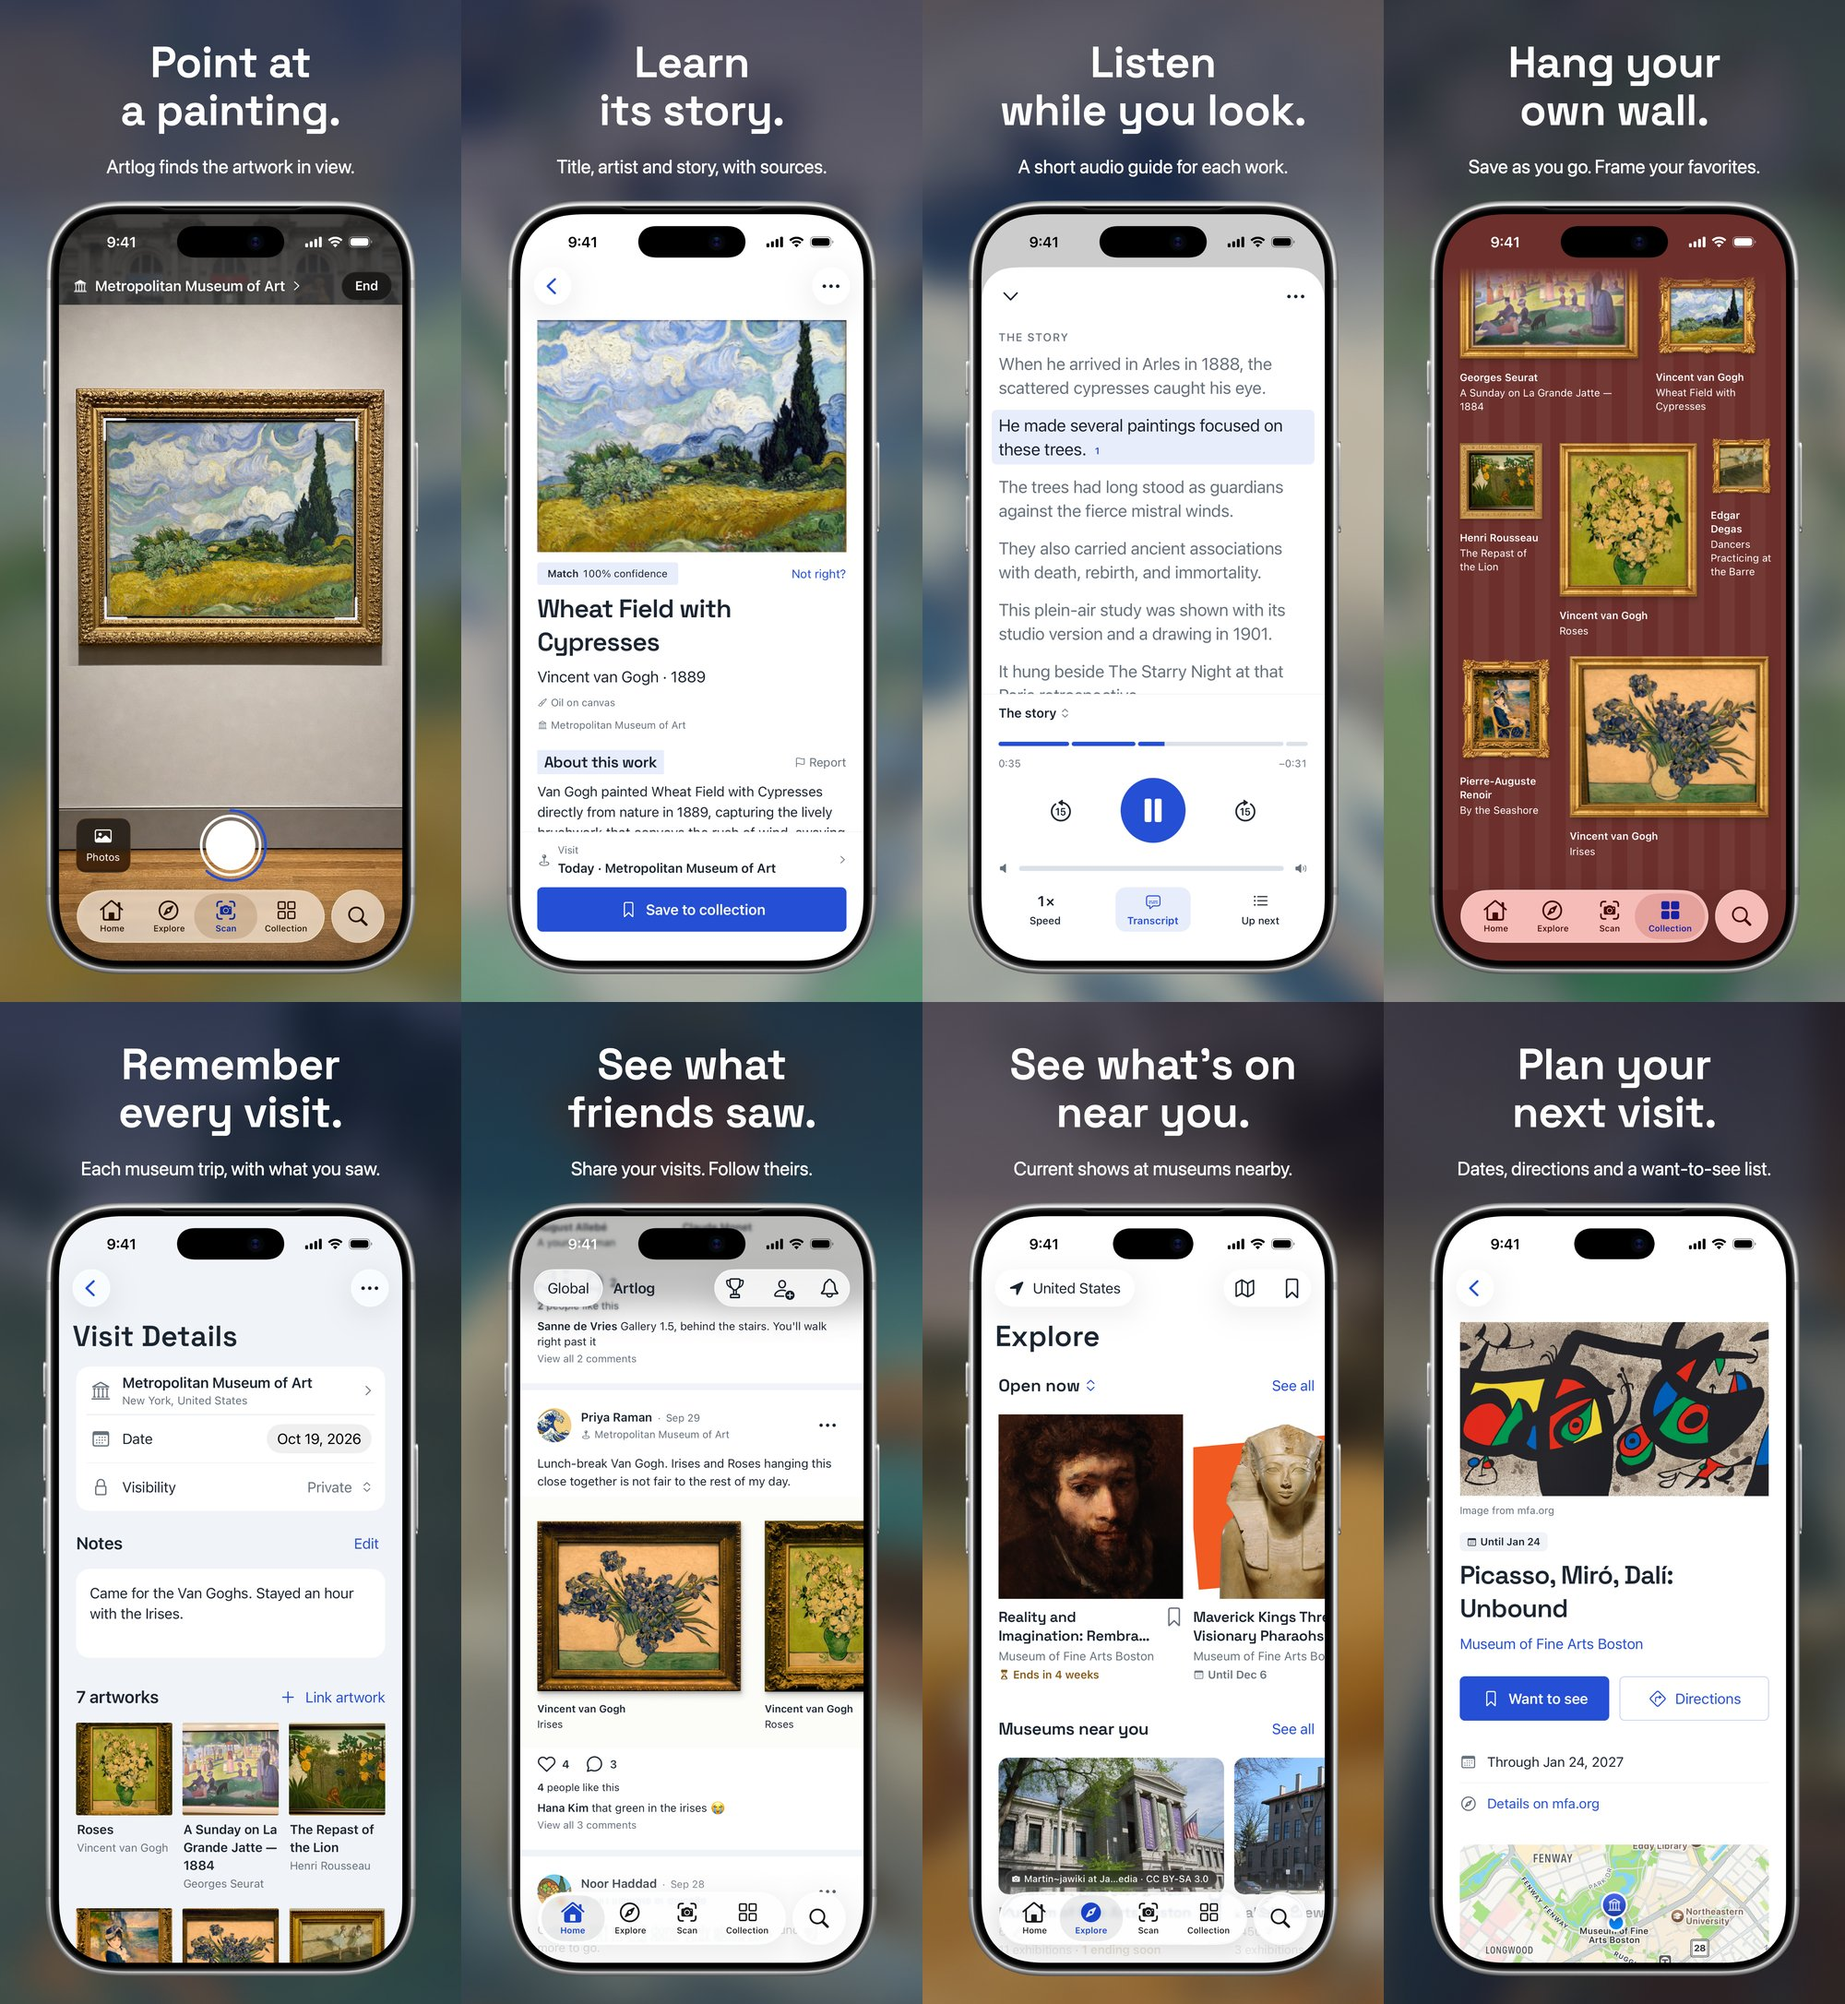
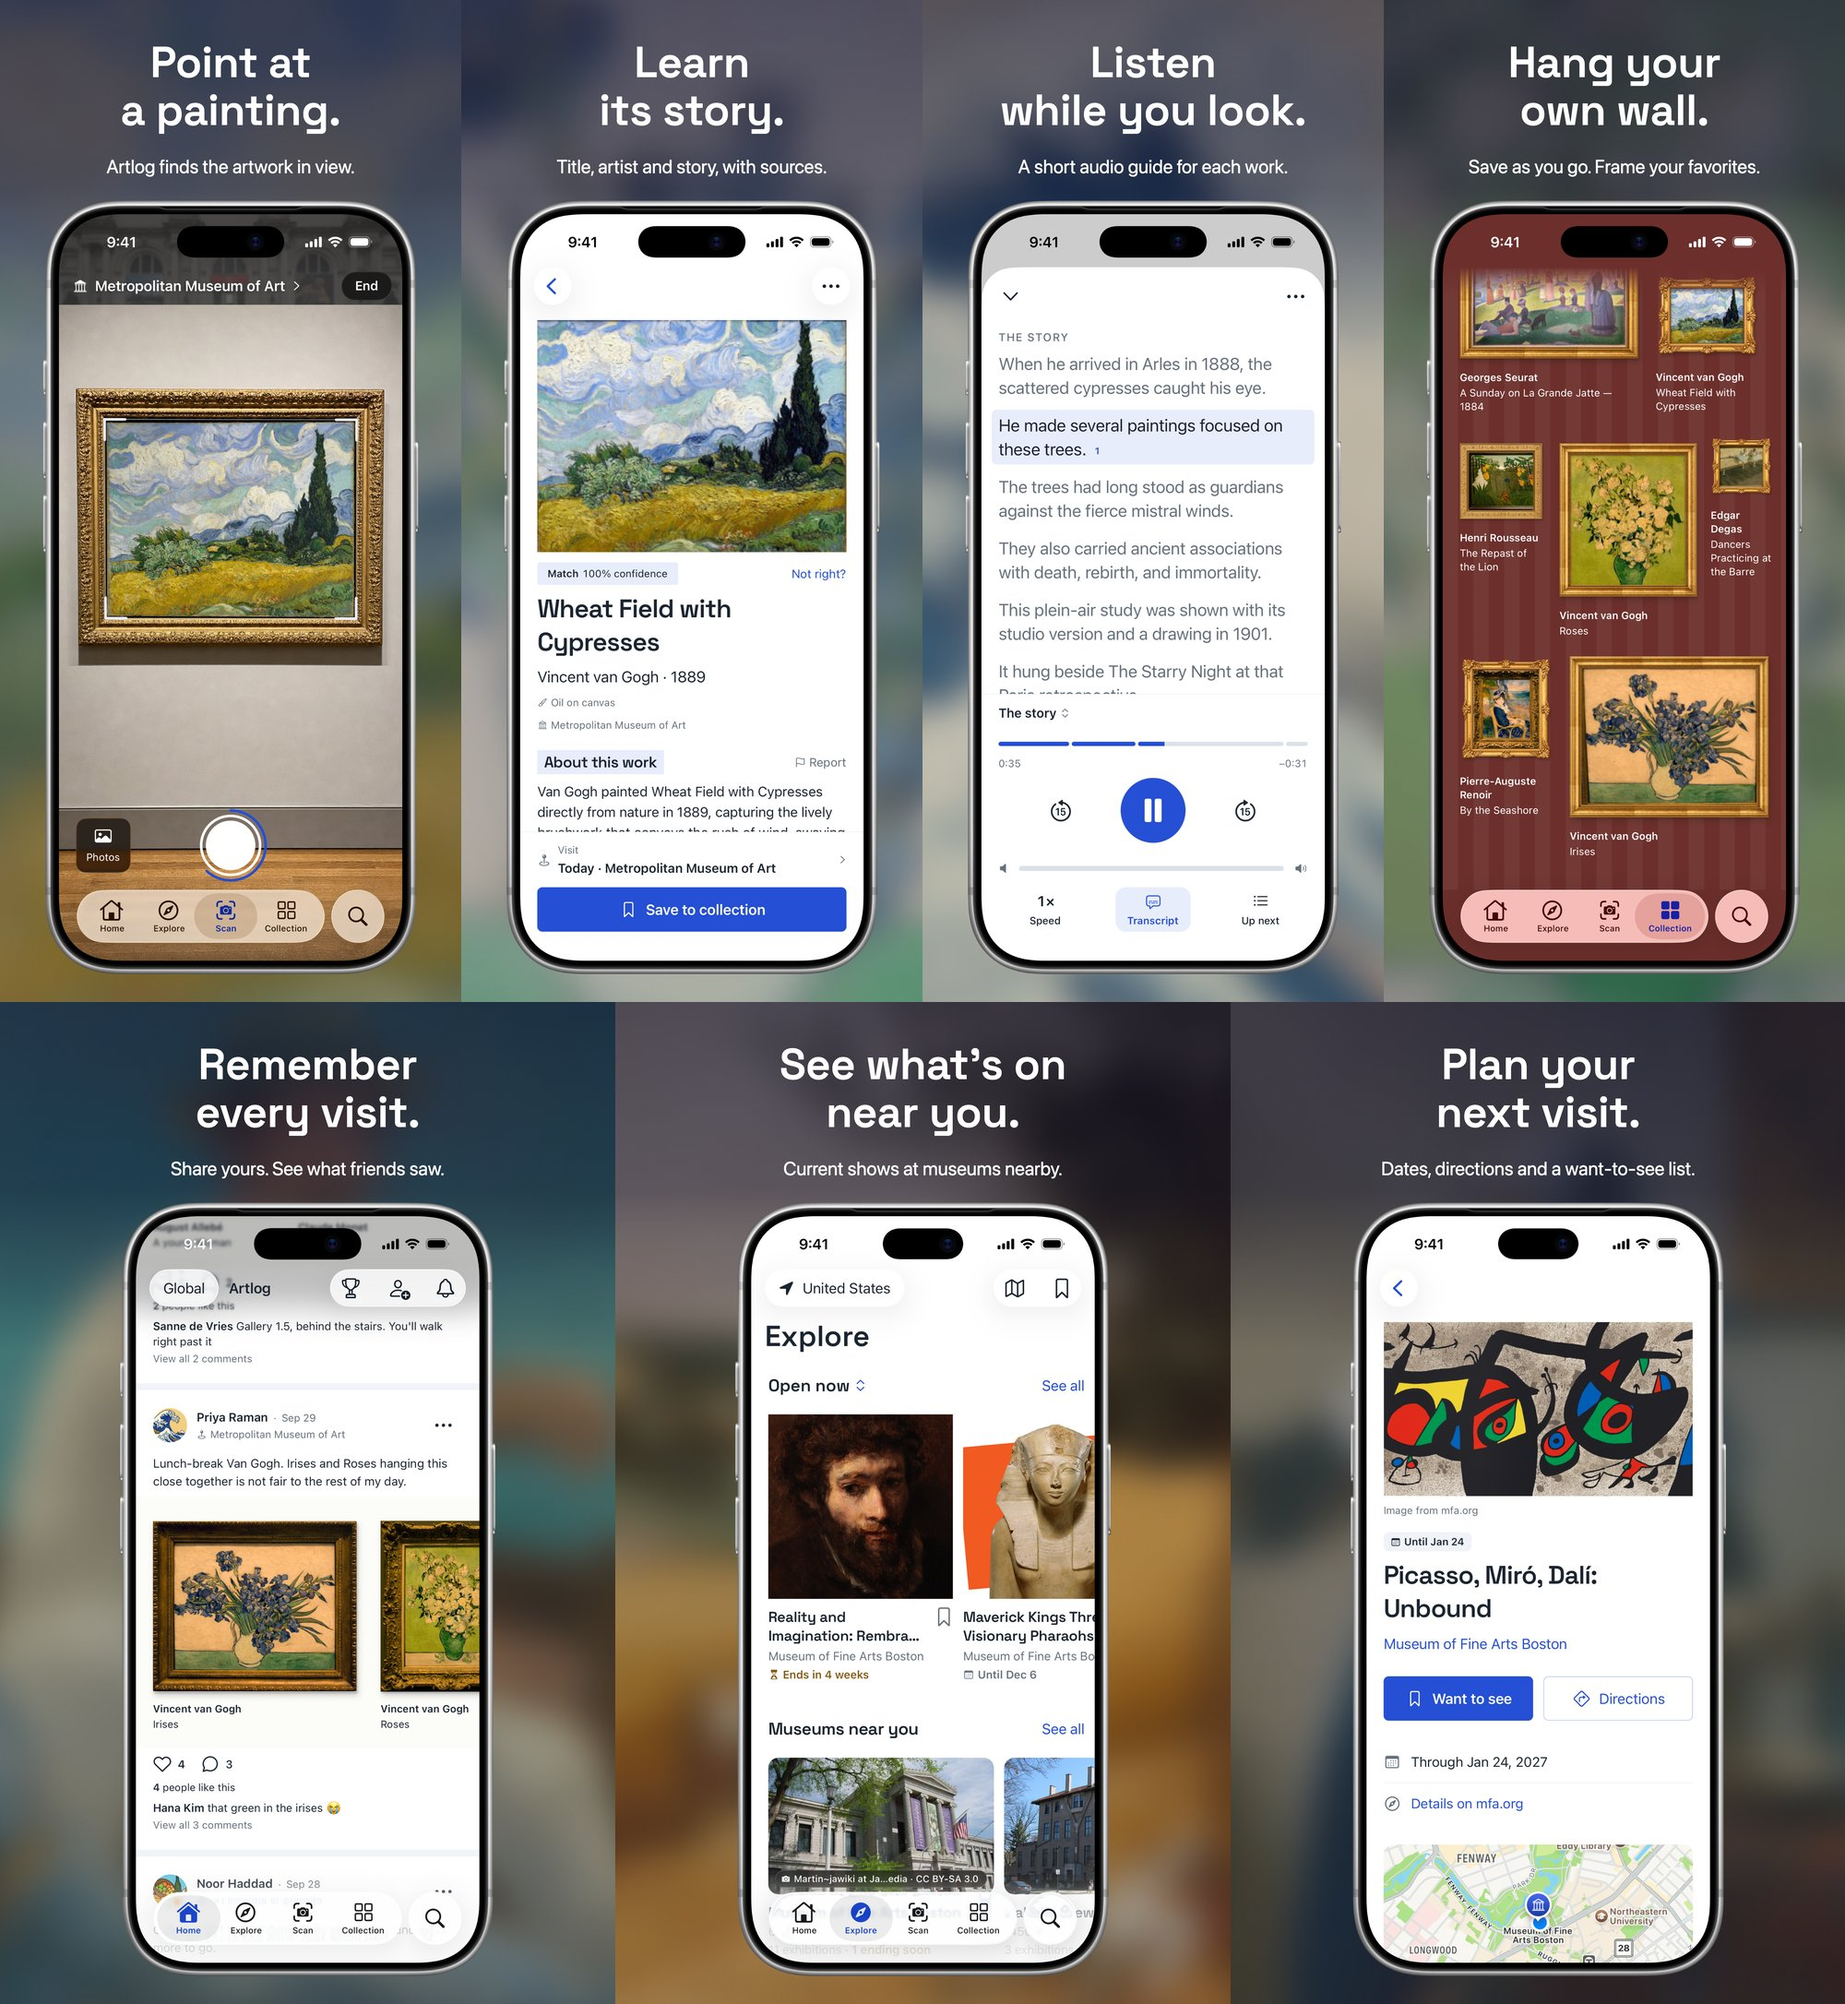
docs(docs): merge the visit and friends screens in the readme screenshots

diff --git a/README.md b/README.md
@@ -3,7 +3,7 @@
 **Point your iPhone at a painting. Artlog tells you what it is and the story behind it, then
 remembers your visit.**
 
-![Eight Artlog screens: point at a painting, learn its story, listen while you look, hang your own wall, remember every visit, see what friends saw, see what's on near you, and plan your next visit](docs/screenshots/app-screenshots.jpg)
+![Seven Artlog screens: point at a painting, learn its story, listen while you look, hang your own wall, remember every visit and see what friends saw, see what's on near you, and plan your next visit](docs/screenshots/app-screenshots.jpg)
 
 Artlog is an iPhone app for museum visitors, built for the Nebius x NVIDIA Global AI Hackathon
 (Best Apps and Agents track). It is open source under the [AGPL-3.0](LICENSE).
